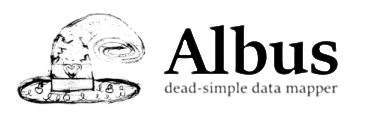
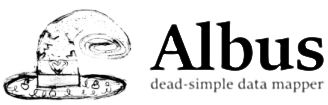
No double header

diff --git a/README.md b/README.md
@@ -1,5 +1,3 @@
-# albus
-
 ![albus][albus-header]
 
 This Python data mapper library was created thinking on simplicity learning
